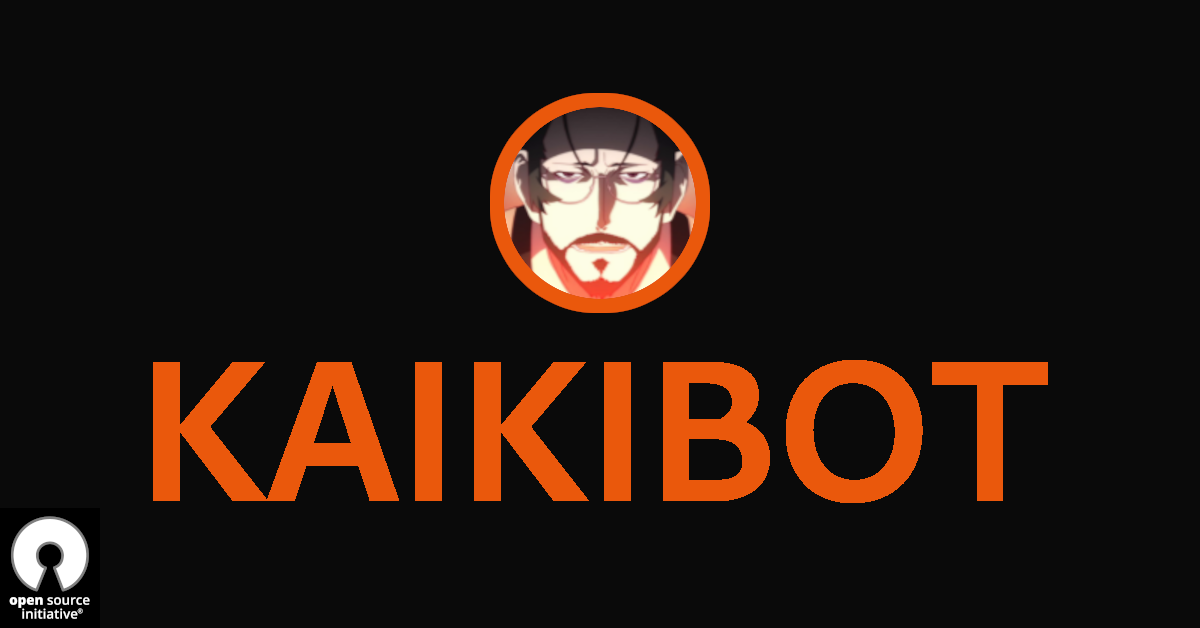
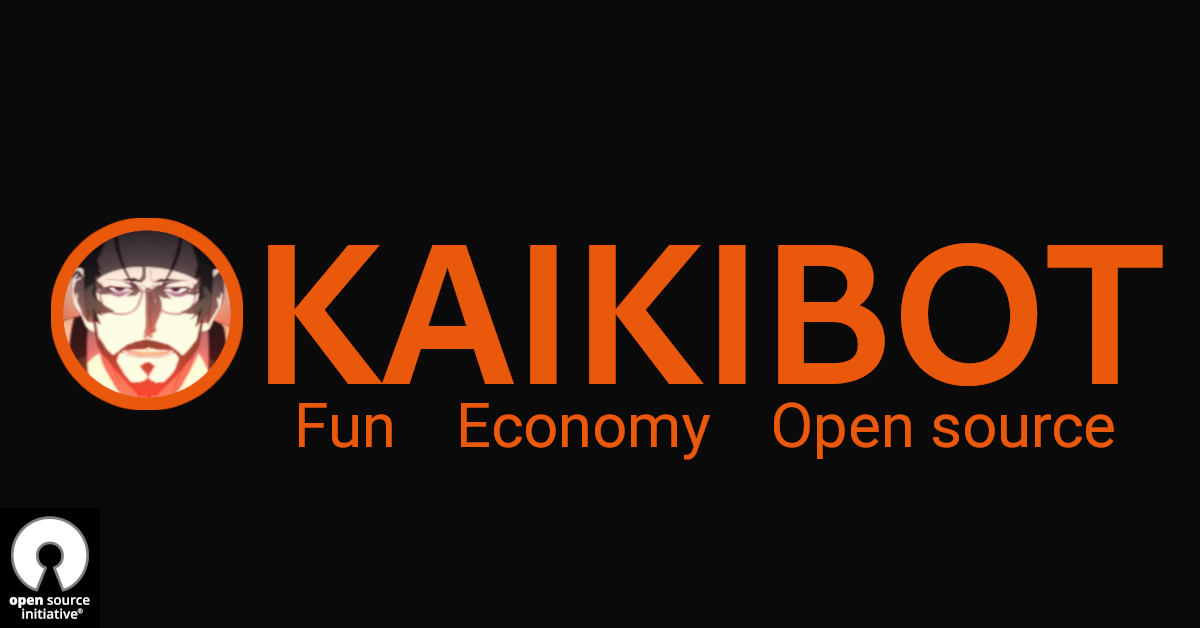
Updated meta tag and image

Changed region(s): [[0.0308, 0.1513, 0.9867, 0.8169]]

diff --git a/public/index.html b/public/index.html
@@ -29,6 +29,8 @@
 	<link rel='stylesheet' href='/global.css'>
 	<link rel='stylesheet' href='/build/bundle.css'>
 
+	<meta name="theme-color" content="#e67e22">
+
 	<script defer src='/build/bundle.js'></script>
 </head>
 
